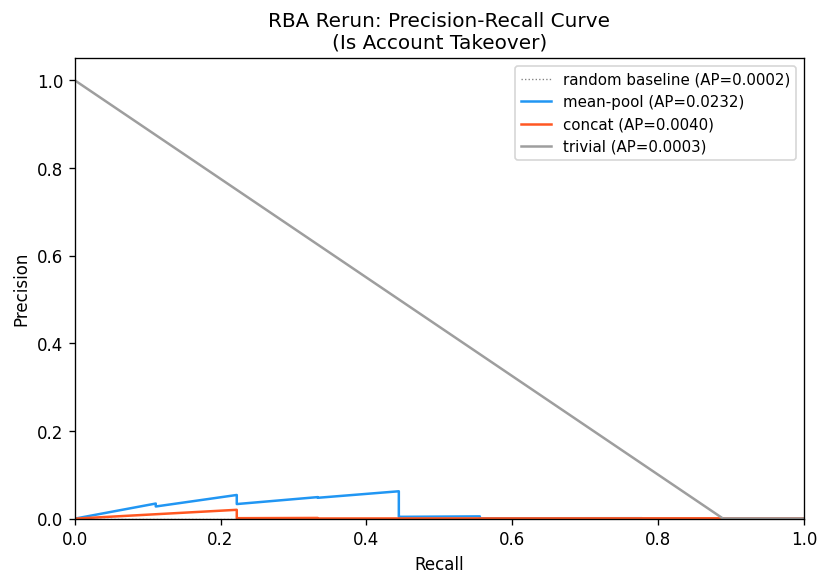
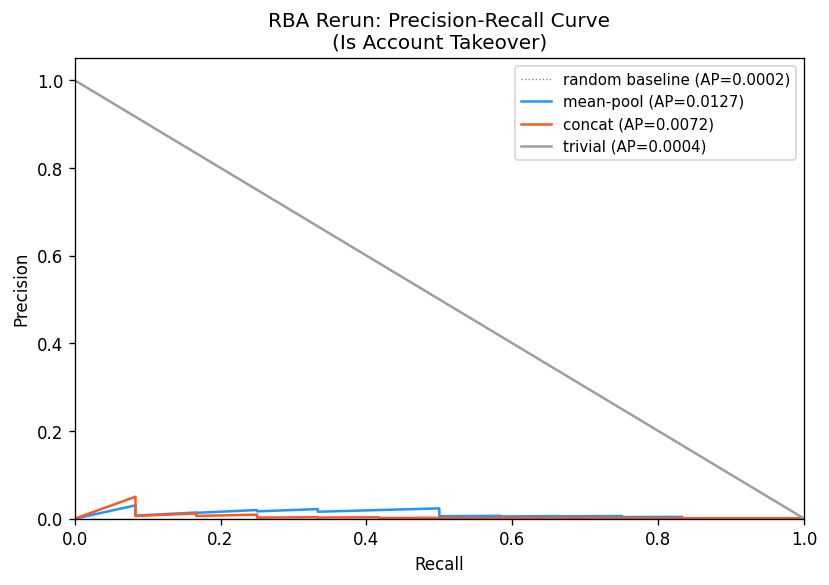
add top-1% threshold metrics to RBA sensitivity analysis

diff --git a/h2_rba/experiments/rba_rerun.py b/h2_rba/experiments/rba_rerun.py
@@ -259,6 +259,23 @@ def score_trivial(users: dict) -> tuple[list, list]:
 # ---------------------------------------------------------------------------
 # Metrics
 # ---------------------------------------------------------------------------
+def threshold_metrics_at_top_pct(scores: list, labels: list, top_pct: float = 0.01) -> dict:
+    sc = np.array(scores)
+    lb = np.array(labels)
+    cutoff = np.percentile(sc, 100 * (1 - top_pct))
+    preds = (sc >= cutoff).astype(int)
+    tp = int(((preds == 1) & (lb == 1)).sum())
+    fp = int(((preds == 1) & (lb == 0)).sum())
+    fn = int(((preds == 0) & (lb == 1)).sum())
+    precision = tp / (tp + fp) if (tp + fp) > 0 else 0.0
+    recall    = tp / (tp + fn) if (tp + fn) > 0 else 0.0
+    f1 = 2 * precision * recall / (precision + recall) if (precision + recall) > 0 else 0.0
+    return {
+        "threshold": float(cutoff), "tp": tp, "fp": fp, "fn": fn,
+        "precision": precision, "recall": recall, "f1": f1,
+        "flagged": int(preds.sum()), "total": len(sc),
+    }
+
 def bootstrap_metrics(
     scores: list, labels: list, n_boot: int = N_BOOTSTRAP, seed: int = SEED
 ) -> tuple:
@@ -520,6 +537,18 @@ def main() -> None:
 
     headline = "REPLICATED" if mp_roc > triv_roc else "NOT REPLICATED"
     print(f"\n  H2 headline (mean-pool > trivial ROC-AUC): {headline}")
+
+    print(f"\n  Top-1% threshold  (flag highest 1% of distances as ATO):")
+    print(f"  {'Model':<12} {'Threshold':>10} {'Flagged':>8} {'TP':>5} {'FP':>7} {'Precision':>10} {'Recall':>8} {'F1':>8}")
+    print("  " + "-" * 74)
+    for name, sc, lb in [
+        ("mean-pool", mp_scores,   mp_labels),
+        ("concat",    cat_scores,  cat_labels),
+        ("trivial",   triv_scores, triv_labels),
+    ]:
+        m = threshold_metrics_at_top_pct(sc, lb, top_pct=0.01)
+        print(f"  {name:<12} {m['threshold']:>10.4f} {m['flagged']:>8,} {m['tp']:>5} {m['fp']:>7,}"
+              f" {m['precision']:>10.4f} {m['recall']:>8.4f} {m['f1']:>8.4f}")
 
     print("\n[6/7] T6 compactness, T8 token similarity ...")
     mp_c,  mp_c_lo,  mp_c_hi  = bootstrap_mean_compactness(users, embed_mp,  mp_model)
